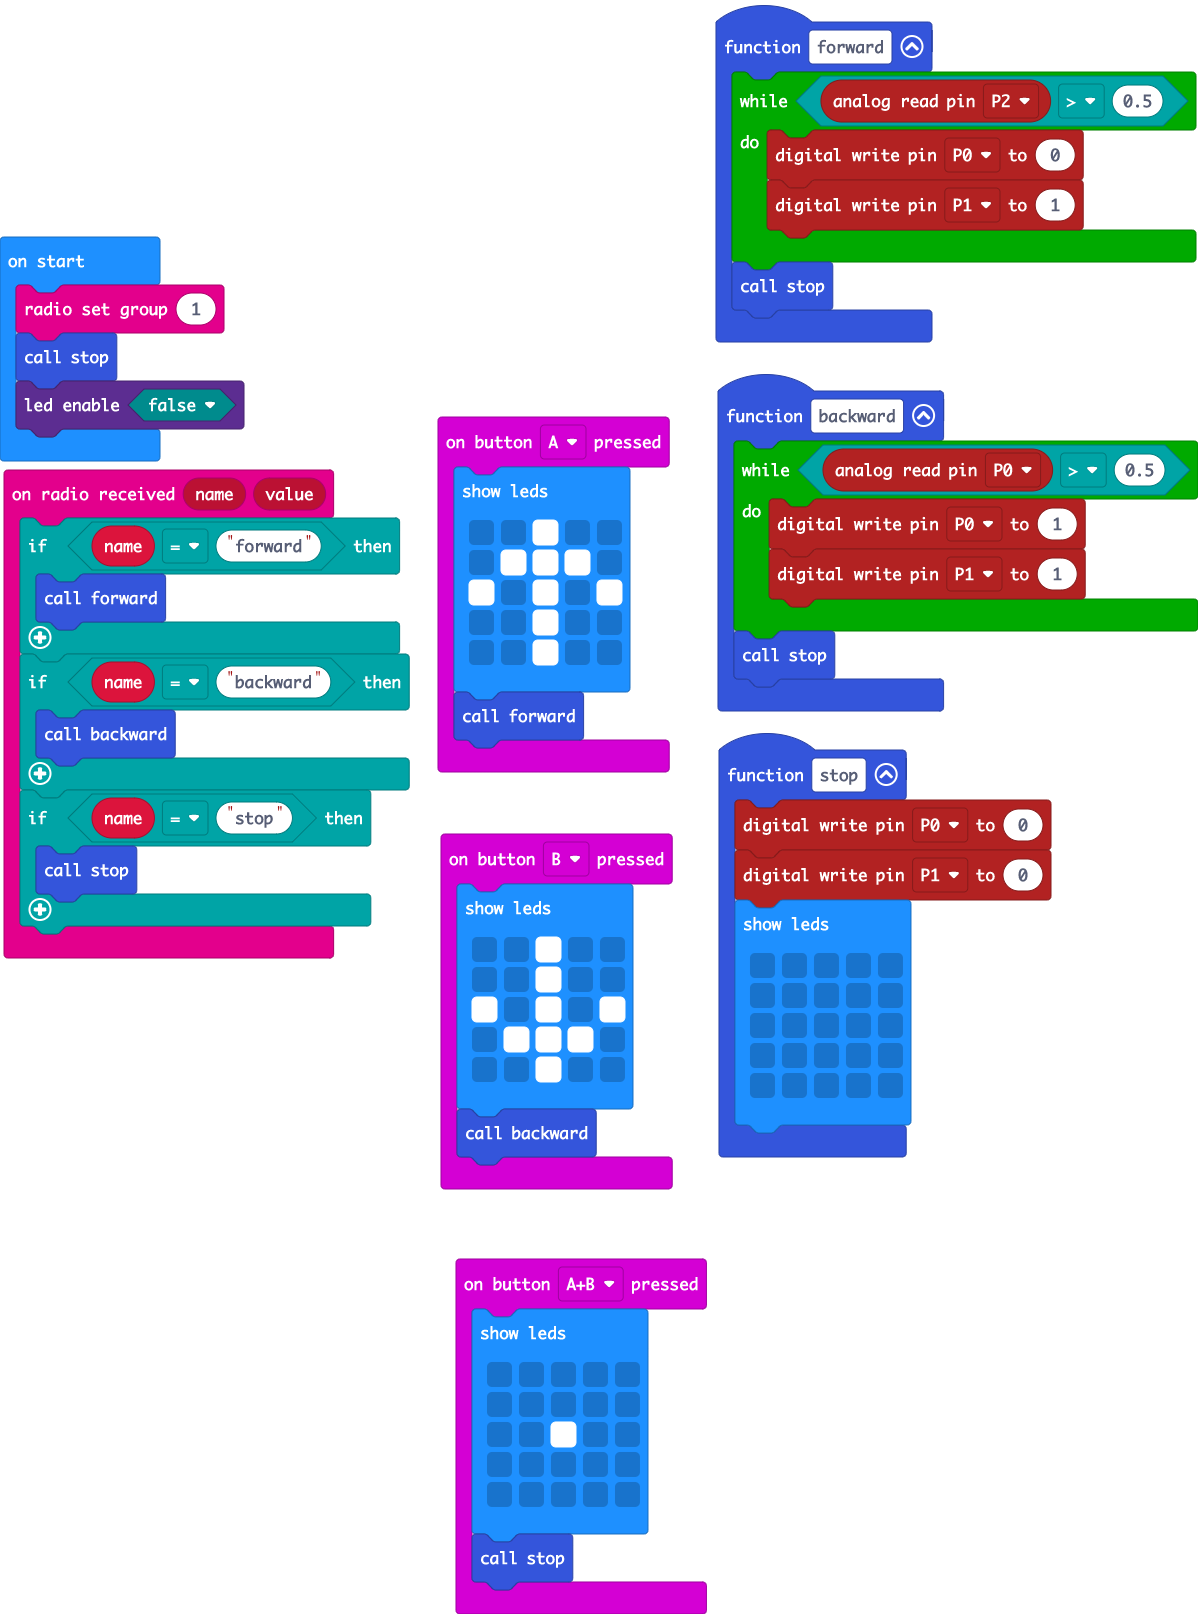
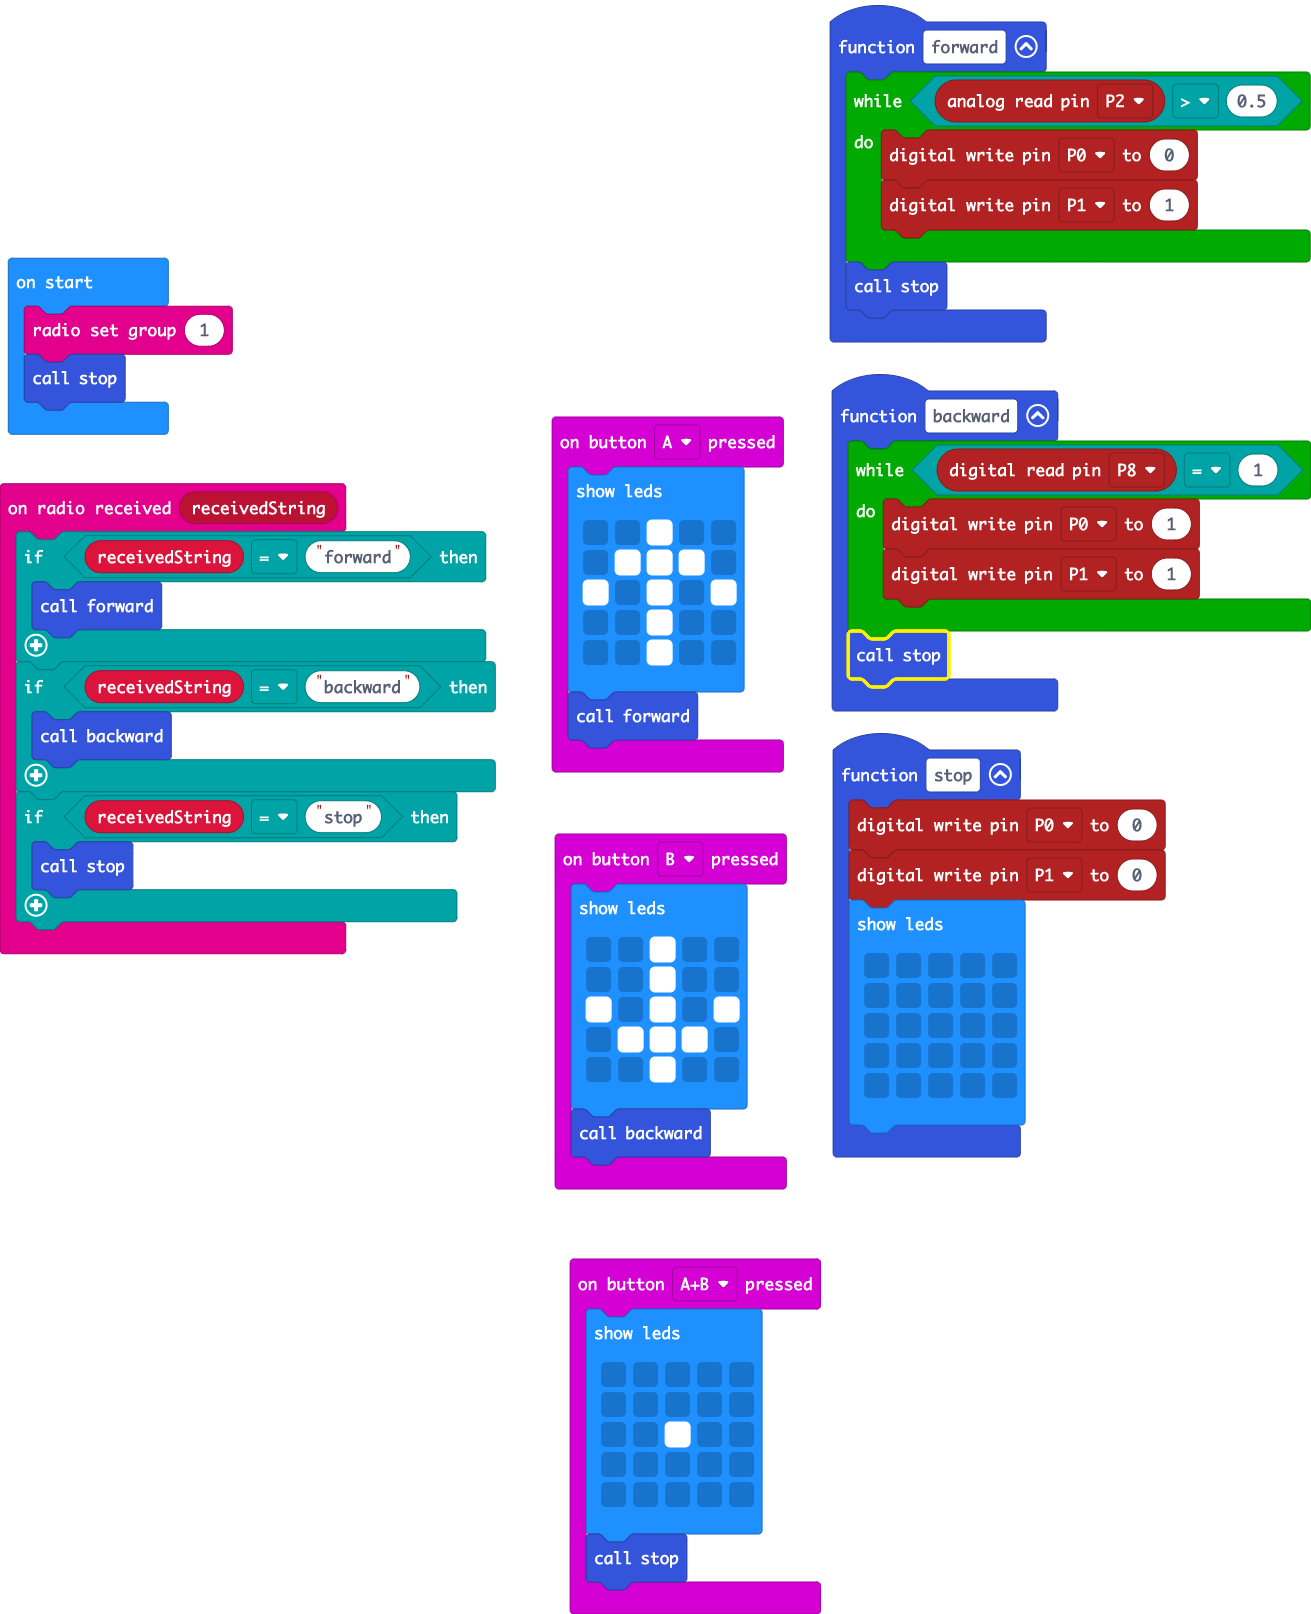
Update main.blocks, main.ts

Changed region(s): [[0.0, 0.0, 1.0, 0.7435], [0.3706, 0.7745, 0.6486, 1.0], [0.5868, 0.9603, 0.6486, 1.0]]

diff --git a/main.ts b/main.ts
@@ -20,7 +20,7 @@ input.onButtonPressed(Button.A, function () {
     forward()
 })
 function backward () {
-    while (pins.analogReadPin(AnalogPin.P0) > 0.5) {
+    while (pins.digitalReadPin(DigitalPin.P8) == 1) {
         pins.digitalWritePin(DigitalPin.P0, 1)
         pins.digitalWritePin(DigitalPin.P1, 1)
     }
@@ -36,6 +36,17 @@ input.onButtonPressed(Button.AB, function () {
         `)
     stop()
 })
+radio.onReceivedString(function (receivedString) {
+    if (receivedString == "forward") {
+        forward()
+    }
+    if (receivedString == "backward") {
+        backward()
+    }
+    if (receivedString == "stop") {
+        stop()
+    }
+})
 input.onButtonPressed(Button.B, function () {
     basic.showLeds(`
         . . # . .
@@ -46,17 +57,6 @@ input.onButtonPressed(Button.B, function () {
         `)
     backward()
 })
-radio.onReceivedValue(function (name, value) {
-    if (name == "forward") {
-        forward()
-    }
-    if (name == "backward") {
-        backward()
-    }
-    if (name == "stop") {
-        stop()
-    }
-})
 function forward () {
     while (pins.analogReadPin(AnalogPin.P2) > 0.5) {
         pins.digitalWritePin(DigitalPin.P0, 0)
@@ -66,4 +66,3 @@ function forward () {
 }
 radio.setGroup(1)
 stop()
-led.enable(false)
